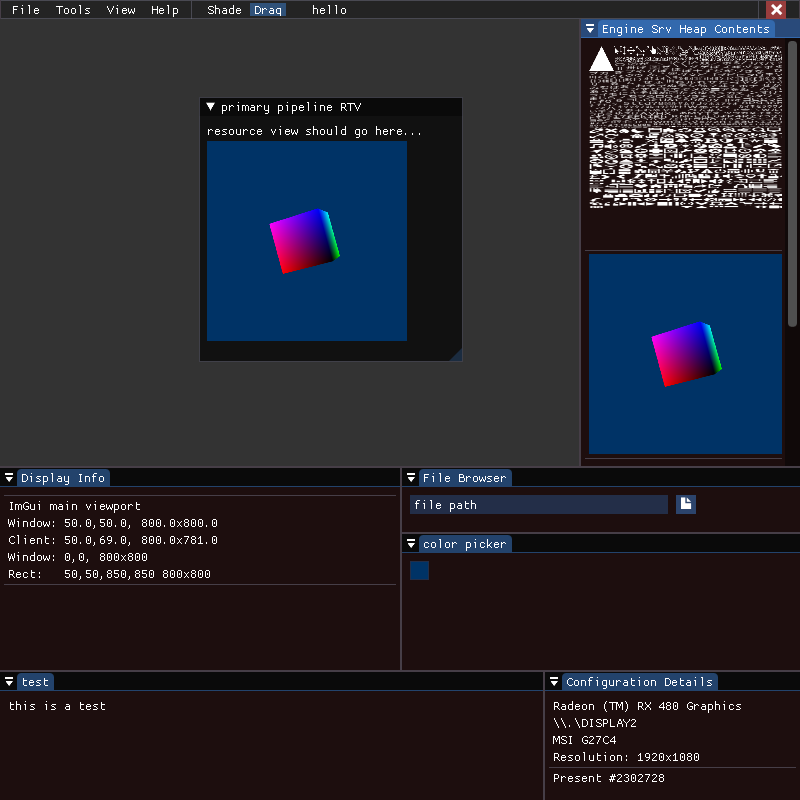
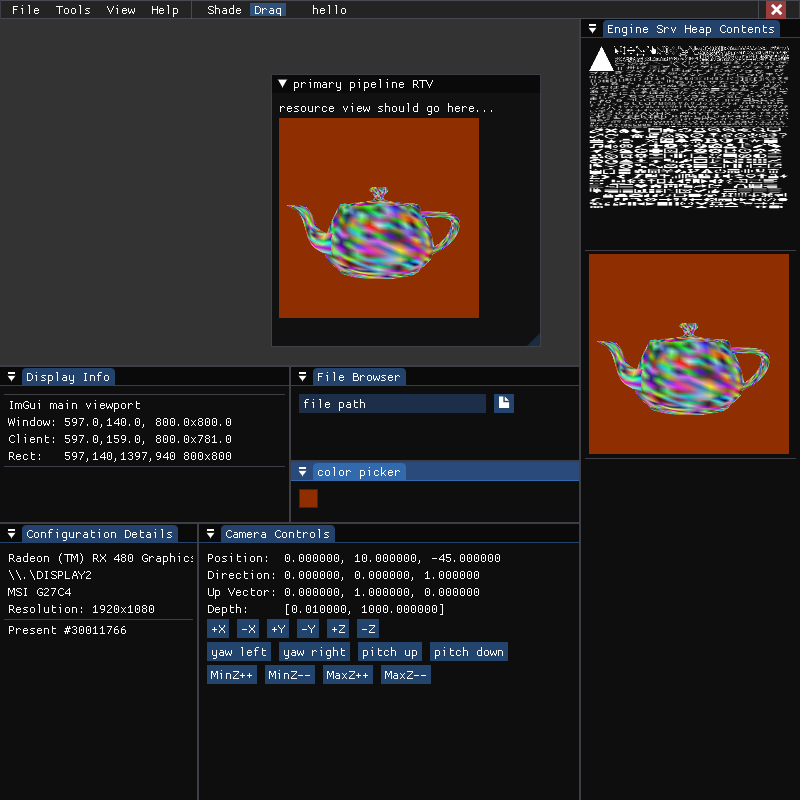
Update readme current status

diff --git a/readme.md b/readme.md
@@ -47,7 +47,7 @@ Initial goals are a shader editor and mesh viewer with UI elements like Blender 
     - Option to rename and keep open
 
 #### Current Status
-Shade is currently a fixed-sized window fully rendered via ImGui with several functional menus/widgets and dockable contents. The engine maintains a simple pipeline and affiliated resources to facilitate the UI. The primary pipeline renders a simple rotating cube and exports its render target. There is much spaghetti to be had.
+Shade is currently a fixed-sized window fully rendered via ImGui with several functional menus/widgets and dockable contents. A primary pipeline renders meshes loaded via Assimp and exports its render target. UI responsibility and event callbacks need shifting back to the engine, and the pipeline needs depth testing.
 ![Current rendered content](./render.png)
 
 Longer Term
